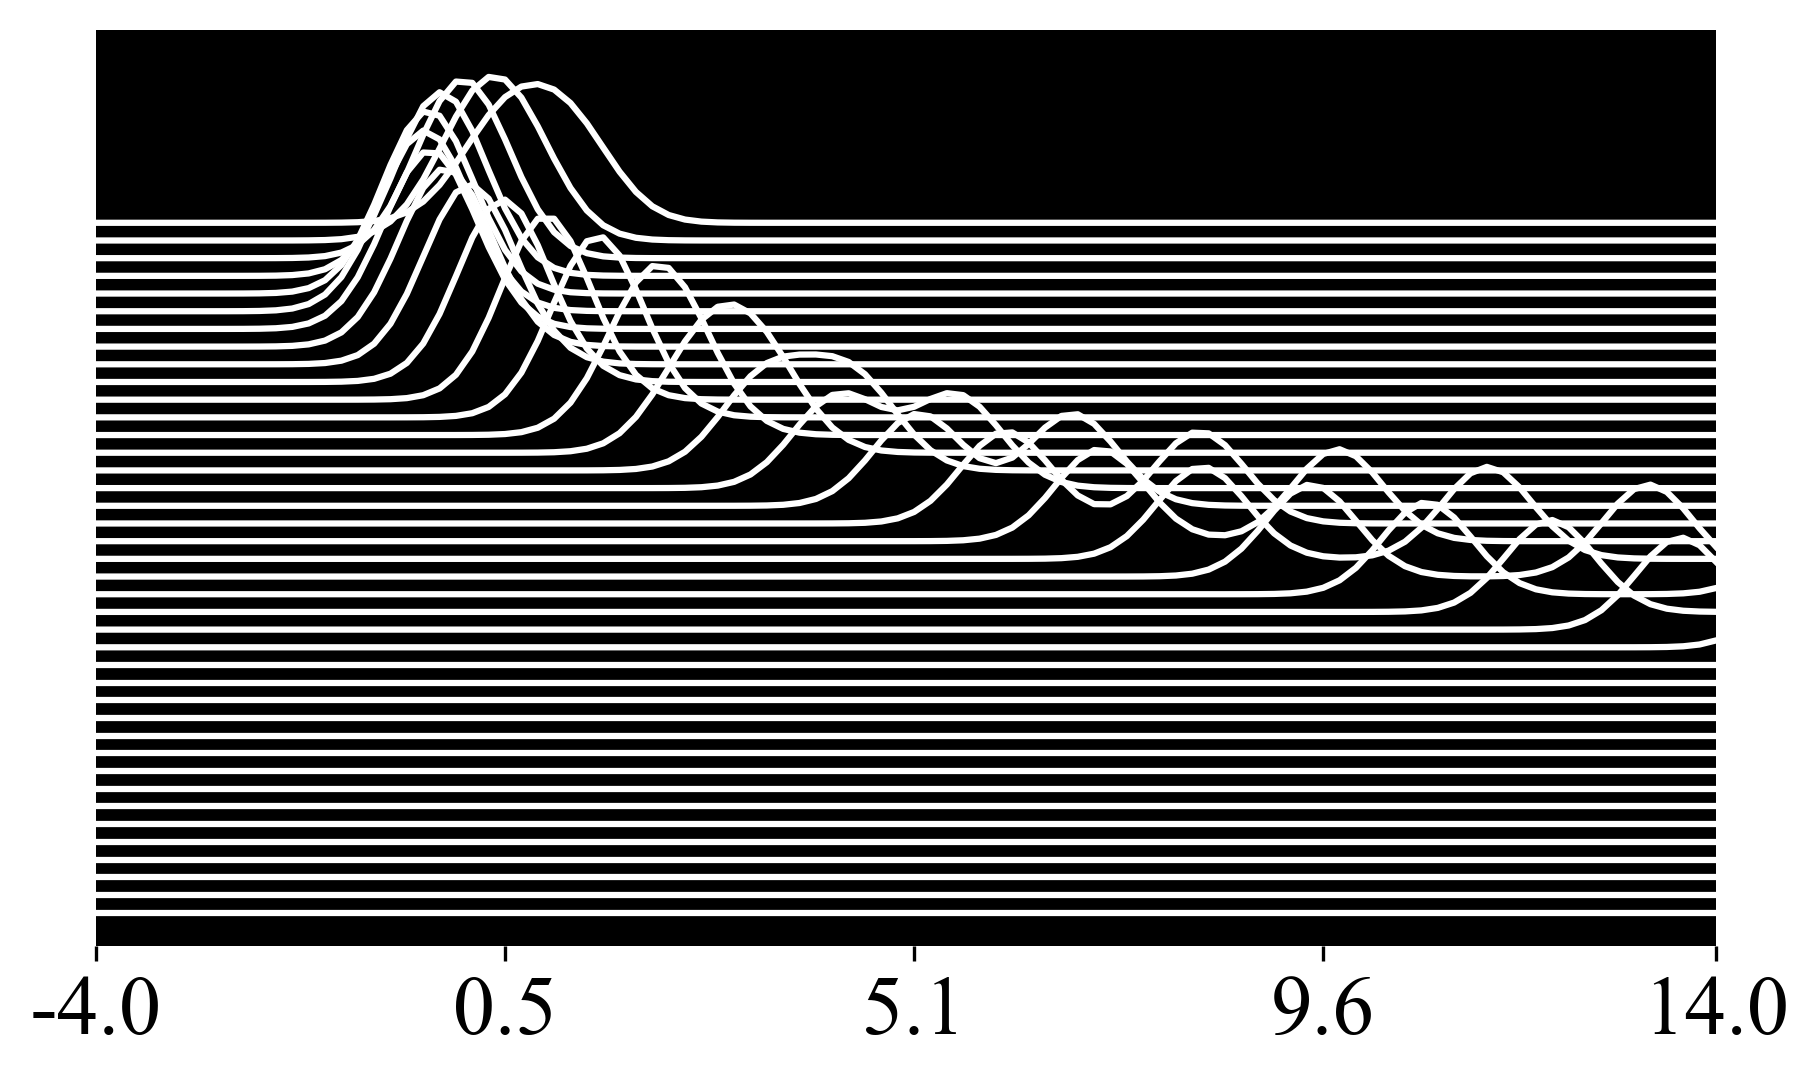
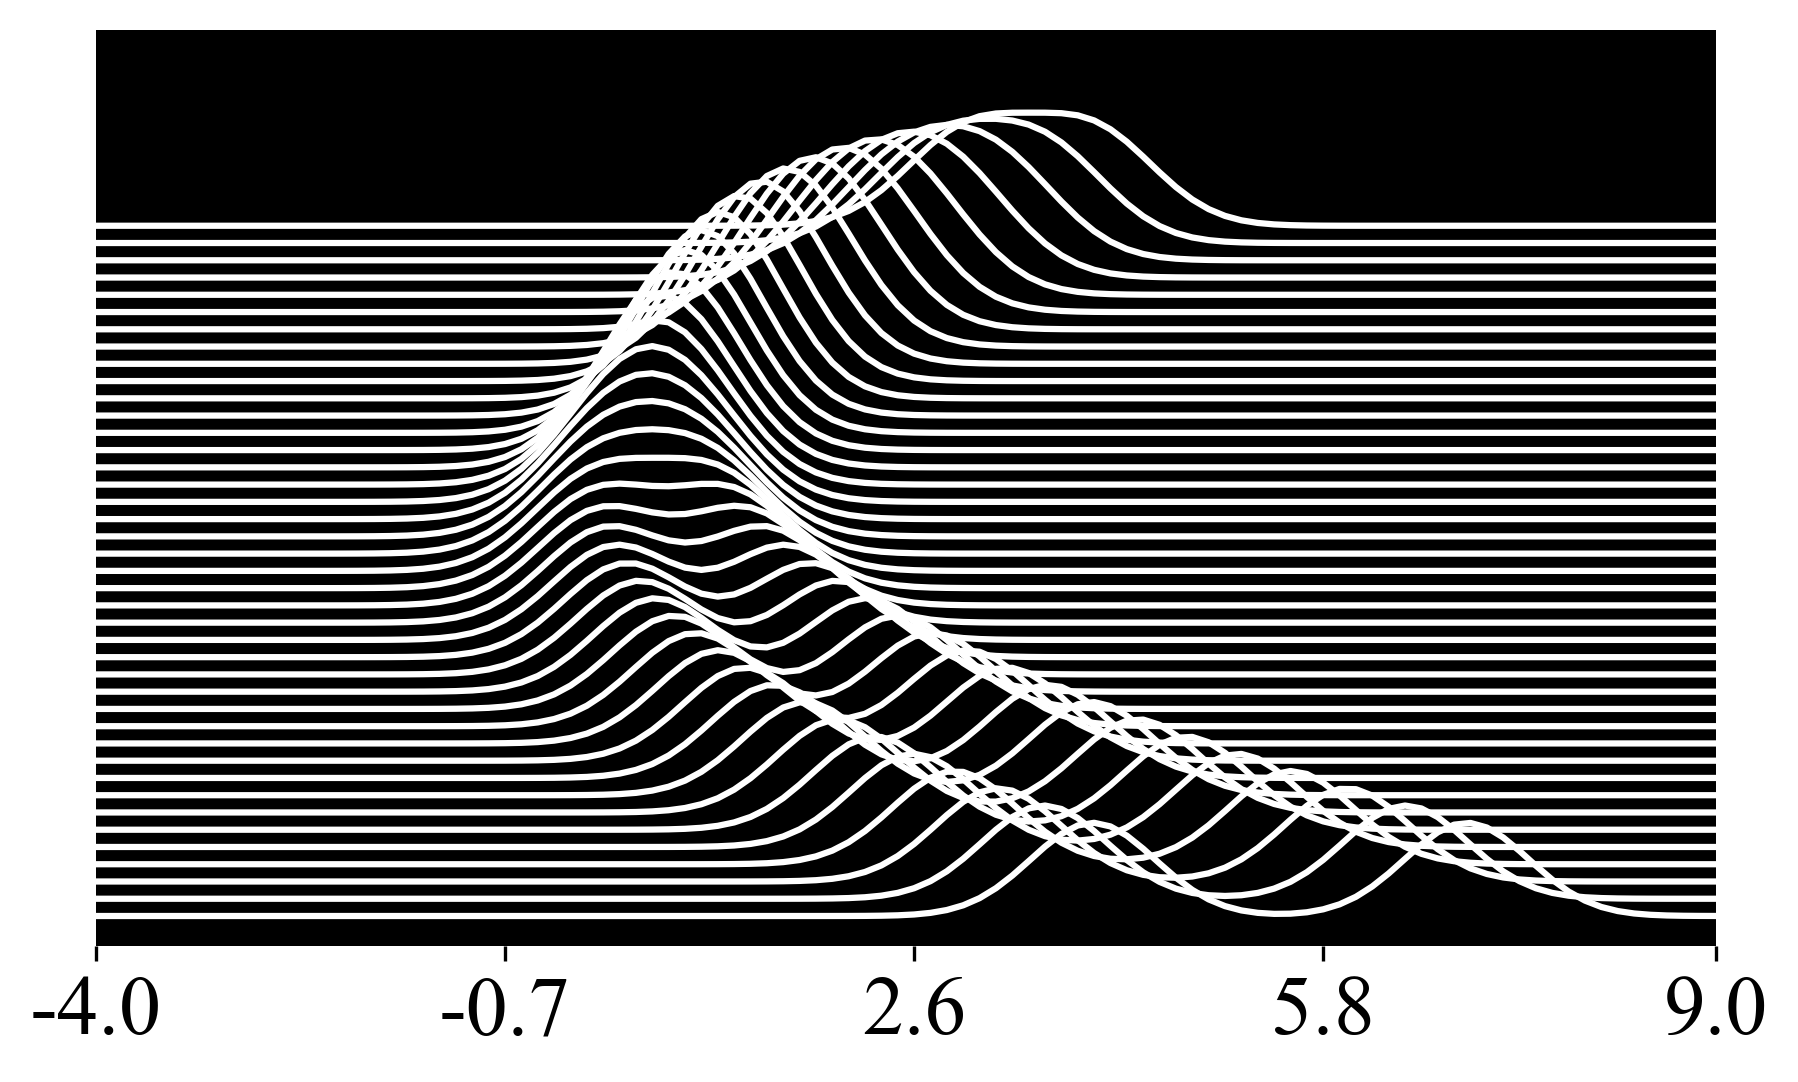
new ridgeline plots

diff --git a/scripts/run_ridgeline_plot.py b/scripts/run_ridgeline_plot.py
@@ -25,7 +25,7 @@ Ridgeline plots
 if __name__ == "__main__":
     # default
     if len(sys.argv) < 3:
-        config = '1'
+        config = '4'
         error_type = 'homo' # error type can be hetero for config = 1,2,3
     # otherwise take argyments from command line
     else:
@@ -153,9 +153,6 @@ if config != '7':
         max_ = max(max_, max([func([1,x],B1[:,i]) for i in range(len(B1[0]))]))
     min_ = float(int(min_))
     max_ = float(int(max_))
-    
-    if func.__name__ == 'poly_func':
-        max_ = 11 
         
     df_true = density_ridgeline_plot(x_list_dense,sigma,\
                                         B1,alpha1,fname,min_,max_,func , approach = 'true')  
@@ -190,28 +187,57 @@ if func.__name__ == 'lin_func' and config != '7':
 # NOTE: we will transpose the data frames
 
 
-ylabels = False
-xlabels = False
-color_list = ['tab:blue', 'tab:orange', 'tab:pink']
-ys = []
-overlap = 0.5
-for i in range(len(x_list_dense)):
-    plt_y = i * (1.0 - overlap)
-    ys.append(plt_y)
-    
-    curve_true = df_true.values[:,i]
-    curve_NPMLE = df_NPMLE.values[:,i]
-    curve_EM = df_EM.values[:,i]
-    
-    plt.plot(x_list_dense, curve_true + y, color = color_list[0], \
-             zorder = len(x_list_dense)-i+1)
-    plt.plot(x_list_dense, curve_NPMLE + y, color = color_list[1], \
-             zorder = len(x_list_dense)-i+1)
-    plt.plot(x_list_dense, curve_EM + y, color = color_list[2], \
-             zorder = len(x_list_dense)-i+1)
 
+
+line_styles = ['-','-','-','-']
+color_list = ['tab:blue', 'tab:orange', 'tab:pink']
+name_list = ['Truth','NPMLE-CV', 'EM-true']
+
+for [plot_NPMLE,plot_EM] in [[True, False], [False, True]]:
+    
+    fig = plt.figure(figsize = (10,10))
+    if func.__name__ == 'lin_func':
+        y = np.linspace(min_ -1, max_ + 1, 100)
+    else:
+        y = np.linspace(min_ -3, max_ + 3, 100)
+        
+    curve_gap = 0.08
+    for i in range(len(x_list_dense)):
+        x_step = i * curve_gap
+        
+        curve_true = df_true.values[:,i]
+        plt.plot(y, curve_true + x_step, color = color_list[0], \
+                     zorder = len(x_list_dense)-i+1)
+        if plot_NPMLE == True:
+            curve_NPMLE = df_NPMLE.values[:,i]
+            plt.plot(y, curve_NPMLE + x_step, color = color_list[1], \
+                         zorder = len(x_list_dense)-i+1)
+        if plot_EM == True:
+            curve_EM = df_EM.values[:,i]
+            plt.plot(y, curve_EM + x_step, color = color_list[2], \
+                 zorder = len(x_list_dense)-i+1)
+    #
     
     
+    if plot_NPMLE == True:
+        plt_index = [0,1]
+    if plot_EM == True:
+        plt_index = [0,2]
+    if plot_NPMLE == True and plot_EM == True:
+        plt_index = [0,1,2]
+    # legend      
+    custom_lines = [
+                Line2D([0], [0], color= color_list[0], linestyle = line_styles[0]),
+              Line2D([0], [0], color= color_list[1], linestyle = line_styles[1]),
+              Line2D([0], [0], color= color_list[2], linestyle = line_styles[2])
+              # Line2D([0], [0], color= 'tab:purple', linestyle = line_styles[2]),
+        ]
+    
+    ax = plt.gca()
+    lgd = ax.legend(np.array(custom_lines)[plt_index], np.array(name_list)[plt_index], \
+                    bbox_to_anchor=(1.05, 1), loc=2, borderaxespad=0.)
+    plt.savefig("./../pics/ridgeline_{}_{}".format(fname, '_'.join(np.array(name_list)[plt_index])), \
+                    dpi = 300, bbox_inches='tight')
     
     
     

diff --git a/scripts/plotting_lib.py b/scripts/plotting_lib.py
@@ -669,7 +669,7 @@ def density_ridgeline_plot(x_list,sigma,B,alpha,fname, min_,max_,func = lin_func
     '''
     line_styles = ['-','-','-','-']
     # line_styles = ['-','--',':','-.']
-    fig = plt.figure(figsize = (16,5))
+
     #List of x values
     i = 0
     
@@ -784,7 +784,7 @@ def density_ridgeline_plot_continuous(x_list,sigma,meanb1,covb1, meanb2,covb2,df
     '''
     line_styles = ['-','-','-','-']
     # line_styles = ['-','--',':','-.']
-    fig = plt.figure(figsize = (16,5))
+
     #List of x values
     i = 0
     

diff --git a/scripts/run_heteroerror_simulation.py b/scripts/run_heteroerror_simulation.py
@@ -38,7 +38,7 @@ if __name__ == "__main__":
         sigma_list = [0.3,0.5,1.0] # hetero errors
         n = 500
         config = '3'
-        run_cv = 0.34 # note this depends on sigma_list
+        run_cv = 'yes' # note this depends on sigma_list
         cv_granularity = 0.01
     # otherwise take argyments from command line
     else:
